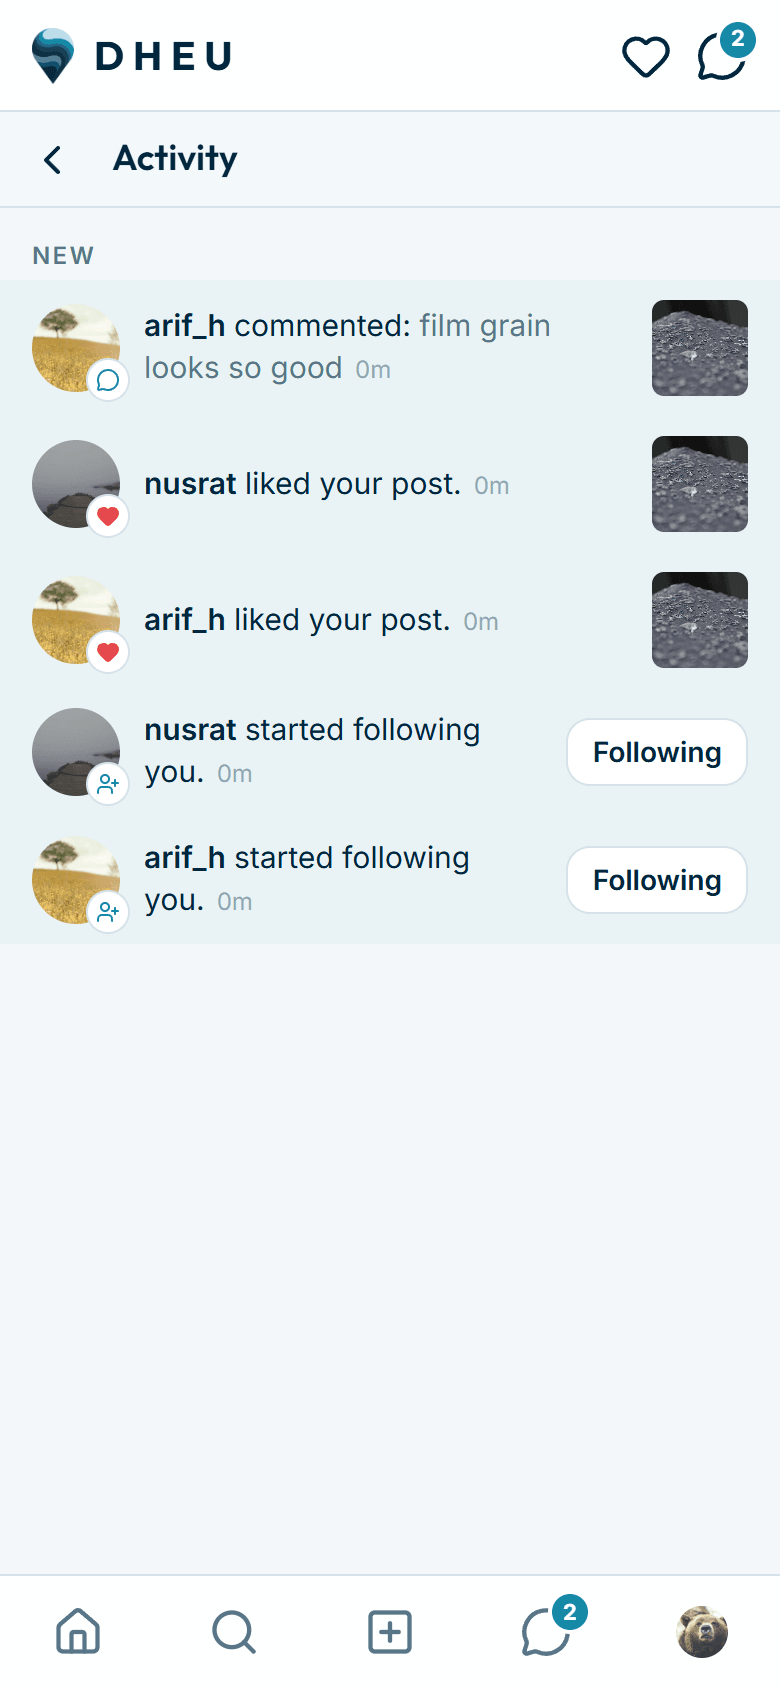
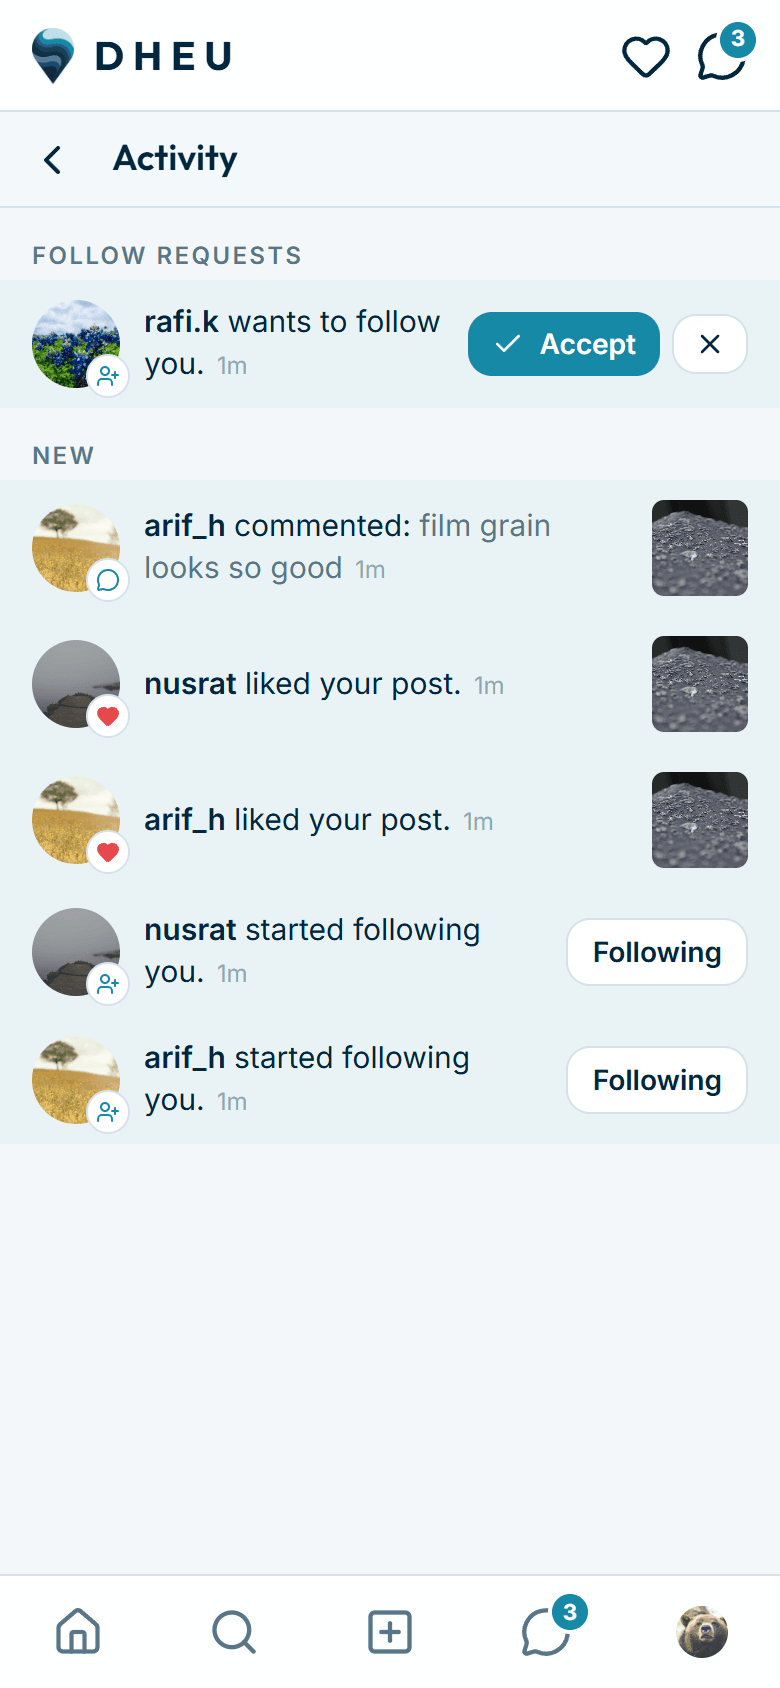
README: private accounts, push, chat photos, suggestions, announcements; refreshed screenshots

diff --git a/README.md b/README.md
@@ -6,7 +6,7 @@
 
 <p align="center">
   An invite-only, Instagram-style photo community for a small circle of people.<br/>
-  Still images only, posts that fade after 30 days, 24-hour stories, real-time chat — running entirely on free tiers.
+  Private accounts, posts that fade after 30 days, 24-hour stories, real-time chat with disappearing photos,<br/>push notifications — running entirely on free tiers.
 </p>
 
 <p align="center">
@@ -27,29 +27,31 @@
 
 | | |
 |---|---|
+| **Private by default** | Every account is private. Following is a request the other person accepts or declines from Activity; posts, stories and highlights are visible only to approved followers — enforced by the database, not just the UI. Blocking removes all ties both ways and hides each person from the other. |
 | **Posts** | 1–10 photos per post in a swipeable carousel, any aspect ratio, captions, likes (double-tap too), comments. Every post expires 30 days after it's shared. |
 | **Stories** | 24-hour photo stories with a full-screen viewer (progress bars, tap / hold / swipe gestures, keyboard on desktop), emoji reactions, text replies that land in chat, "seen by" list, and permanent Highlights on the profile. |
-| **Chat** | 1-to-1 messaging with instant delivery over WebSockets, photos that vanish after 7 days, swipe-to-reply with quoted messages, unread badges, day separators and story-reply context. |
-| **Activity** | Instagram-style alerts for follow requests, likes, comments, new followers and story reactions — created by database triggers, shown with a live badge, and delivered as **Web Push** notifications to installed PWAs (database → webhook → VAPID push). |
-| **Social graph** | Every account is private: follow requests with accept / decline, follower lists, people search, blocking, a chronological feed of the people you follow, and an admin-curated "Suggested for you" strip that appears now and then. |
+| **Chat** | 1-to-1 messaging delivered instantly over WebSockets; photos that vanish after 7 days; swipe-to-reply with quoted messages; unread badges; a pinned read-only **announcements** thread from the admin in every inbox. |
+| **Activity & push** | Alerts for follow requests, accepted requests, likes, comments, new followers and story reactions — created by database triggers, shown with a live badge, and delivered as **Web Push notifications** to installed PWAs (Android, and iOS 16.4+ from the Home Screen). |
+| **Discovery** | People search, follower lists, and an admin-curated "Suggested for you" strip that appears in the feed now and then. |
 | **Photos** | Resized to 1080 px in the browser before upload, HEIC → JPEG conversion, EXIF orientation applied, GPS and other metadata stripped. |
-| **Accounts** | Email + password, invite-code gated sign-up (members can generate codes for friends), first account becomes admin, light / dark / system theme, installable as a home-screen app (PWA). |
-| **Admin** | Invite codes with use limits and expiry, member suspension / password reset / deletion, content moderation, storage usage overview, and a pinned read-only **announcements** thread in every inbox. |
+| **Accounts** | Email + password, invite-code gated sign-up — members generate single-use codes for friends and share them from Settings; first account becomes admin; light / dark / system theme; installable as a home-screen app (PWA). |
+| **Admin** | Invite codes with use limits and expiry, member suspension / password reset / deletion, content moderation, suggestions curation, announcements, storage usage overview. |
 | **Housekeeping** | A nightly job deletes expired posts, stories, chat photos and old notifications together with their files. |
 
 ## Screenshots
 
 <p align="center">
-  <img src="docs/screenshots/feed.png" width="19%" alt="Feed" />
+  <img src="docs/screenshots/feed.png" width="19%" alt="Feed with suggested people" />
   <img src="docs/screenshots/story.png" width="19%" alt="Story viewer" />
   <img src="docs/screenshots/post.png" width="19%" alt="Post with comments" />
-  <img src="docs/screenshots/activity.png" width="19%" alt="Activity" />
-  <img src="docs/screenshots/chat.png" width="19%" alt="Chat" />
+  <img src="docs/screenshots/activity.png" width="19%" alt="Activity with follow requests" />
+  <img src="docs/screenshots/chat.png" width="19%" alt="Chat with a disappearing photo and a quoted reply" />
 </p>
 <p align="center">
   <img src="docs/screenshots/profile.png" width="19%" alt="Profile" />
+  <img src="docs/screenshots/private-profile.png" width="19%" alt="Private profile with a pending request" />
+  <img src="docs/screenshots/settings.png" width="19%" alt="Settings: push notifications and invite codes" />
   <img src="docs/screenshots/feed-dark.png" width="19%" alt="Dark mode" />
-  <img src="docs/screenshots/login-light.png" width="19%" alt="Login (light)" />
   <img src="docs/screenshots/login-dark.png" width="19%" alt="Login (dark)" />
 </p>
 <p align="center">
@@ -63,42 +65,51 @@
 
 ```mermaid
 flowchart LR
-  B["Browser / PWA<br/>React 19 client components"]
-  V["Vercel<br/>Next.js 16 server components,<br/>server actions, nightly cron"]
+  B["Browser / installed PWA<br/>React 19 client components<br/>+ service worker"]
+  V["Vercel (sin1)<br/>Next.js 16 server components,<br/>server actions, /api/push, nightly cron"]
   subgraph S["Supabase (ap-southeast-1)"]
-    DB[("Postgres<br/>18 tables · RLS · triggers")]
+    DB[("Postgres<br/>22 tables · 78 RLS policies<br/>14 triggers · Vault")]
     AUTH["Auth<br/>email + password, ES256 JWT"]
     ST["Storage<br/>avatars · posts · stories · chat"]
     RT["Realtime<br/>Postgres changes over WebSocket"]
   end
+  P["Push services<br/>FCM / APNs / Mozilla"]
   B -- "pages & actions" --> V
-  V -- "queries (user JWT)" --> DB
-  V -- "privileged ops (secret key)" --> DB
+  V -- "queries (user JWT) /<br/>privileged ops (secret key)" --> DB
   B -- "likes, follows, comments,<br/>uploads (user JWT)" --> DB & ST
-  B -- "chat & badges" --> RT
+  B -- "chat, badges, announcements" --> RT
   RT --> DB
+  DB -- "pg_net webhook on<br/>notification / message / announcement" --> V
+  V -- "Web Push (VAPID)" --> P
+  P -- "push event" --> B
   B --> AUTH
 ```
 
 **One codebase, no separate backend.** Next.js server components render pages on Vercel and query Supabase directly; interactive pieces (feed, story viewer, chat, uploads) are client components that talk to Supabase from the browser.
 
-**Security lives in the database.** Every table has Row Level Security — 60-odd policies evaluated inside Postgres against the caller's JWT. Members can only change their own rows, read chats they belong to, or touch the `read_at` column of their own notifications; the admin can delete anything. The browser only ever holds a publishable key that grants nothing on its own. Privileged operations (invite-gated sign-up, bans, cleanup) run server-side with the secret key.
+**Security lives in the database.** Every table has Row Level Security — 78 policies evaluated inside Postgres against the caller's JWT. Members can only change their own rows, read chats they belong to, or touch the `read_at` column of their own notifications; the admin can delete anything. The browser only ever holds a publishable key that grants nothing on its own. Privileged operations (invite-gated sign-up, bans, cleanup, push sending) run server-side with the secret key.
 
-**Notifications are triggers.** Inserting a like, follow, comment or story reaction fires a PL/pgSQL trigger that writes a notification row (and deletes it again on unlike / unfollow). Realtime streams the insert to the recipient's open tab.
+**Privacy is a function.** `can_view_content_of(author)` — self, or an approved follow, and never across a block — is the single predicate behind the RLS policies for posts, images, comments, likes, stories and highlights. Following is a `follow_requests` row that only `accept_follow_request()` can turn into a `follows` row; blocking fires a trigger that removes follows, requests and notifications in both directions.
+
+**Notifications are triggers.** Inserting a like, follow request, comment or story reaction fires a PL/pgSQL trigger that writes a notification row (and deletes it again on unlike / decline). Realtime streams the insert to the recipient's open tab.
+
+**Push goes database → site → device.** A second trigger on notifications, messages and announcements calls the site's `/api/push` through `pg_net` (asynchronously, with a shared secret kept in Supabase Vault, and never able to block the original insert). The endpoint looks up the recipient's devices and sends a VAPID-signed Web Push; the service worker shows it and opens the right screen on tap. Read markers are stamped with the database clock so a phone with a slow clock can't leave things "unread".
 
 **Images never touch a server.** The browser decodes the file (including HEIC via a WebAssembly build of libheif), fixes orientation, redraws it on a canvas at ≤ 1080 × 1920 — which also strips all metadata — and uploads the JPEG straight to Storage under `<userId>/<uuid>.jpg`. Storage policies only allow writes into your own folder.
 
-**Expiry is a timestamp.** `posts.expires_at` defaults to `now() + 30 days`; RLS hides expired rows instantly and a Vercel cron job (`/api/cron/cleanup`) removes rows and files nightly, keeping highlighted stories.
+**Expiry is a timestamp.** `posts.expires_at` defaults to `now() + 30 days` and chat photos get `image_expires_at = now() + 7 days`; RLS hides expired rows instantly and a Vercel cron job (`/api/cron/cleanup`) removes rows and files nightly, keeping highlighted stories.
+
+**Region matters.** Vercel functions are pinned next to the database (`vercel.json`); that alone cut page render time by roughly 4×. Badge counts are rendered on the server and kept fresh over one shared Realtime channel, and a `loading.tsx` skeleton makes navigation feel instant.
 
 ## Stack
 
 - **Next.js 16** (App Router, Turbopack, server actions, `proxy.ts` for session refresh) · **React 19** · **TypeScript** (strict; hand-written `Database` type mirrors the schema so every query is type-checked)
 - **Tailwind CSS 4** with a small token set; light / dark themes; Inter + Outfit
-- **Supabase**: Postgres, Auth, Storage, Realtime — schema and policies in [`supabase/migrations`](supabase/migrations)
+- **Supabase**: Postgres (with `pg_net` webhooks and Vault), Auth, Storage, Realtime — schema, policies and triggers in [`supabase/migrations`](supabase/migrations)
 - **Vercel** for hosting, functions pinned to the database's region, cron
-- **zod** for input validation, **lucide-react** icons, **heic-to** for HEIC decoding
+- **web-push** (VAPID) for notifications, **zod** for input validation, **lucide-react** icons, **heic-to** for HEIC decoding
 
-~6,500 lines of TypeScript, ~700 lines of SQL, nine runtime dependencies.
+~8,400 lines of TypeScript, ~1,200 lines of SQL (22 tables, 78 RLS policies, 14 triggers, 30 functions), ten runtime dependencies.
 
 ## Running it yourself
 
@@ -119,6 +130,8 @@ src/app/(auth)/            login & sign-up (server actions)
 src/app/(app)/             everything behind login: feed, profiles, posts, stories,
                            highlights, messages, activity, settings, admin
 src/app/api/cron/cleanup/  nightly expiry job
+src/app/api/push/          receives database webhooks, sends Web Push
+src/lib/push.ts            VAPID sending · src/lib/push-client.ts subscribe/unsubscribe · public/sw.js
 src/proxy.ts               session refresh + login gate (runs on every request)
 src/components/            UI: post/ story/ chat/ activity/ profile/ admin/ nav/ ui/ brand/
 src/lib/data/              server-only query functions
@@ -134,6 +147,8 @@ scripts/build-logo.mjs     regenerates icons from the original logo artwork
 - **Public-read image URLs.** Files sit at unguessable paths in public buckets instead of signing every URL; a deliberate trade-off for simplicity in a trusted community.
 - **No email.** Free-tier SMTP can't reach arbitrary addresses, so sign-up needs no confirmation and password resets go through the admin.
 - **Region matters.** Moving Vercel's functions next to the database cut page render time by roughly 4× — see `vercel.json`.
+- **Secrets never sit in the repo.** The push webhook secret lives in Supabase Vault and Vercel env vars; the committed migration carries placeholders.
+- **Fail-safe side effects.** The push webhook trigger swallows its own errors so a notification hiccup can never block a like or a message.
 
 ## License
 
